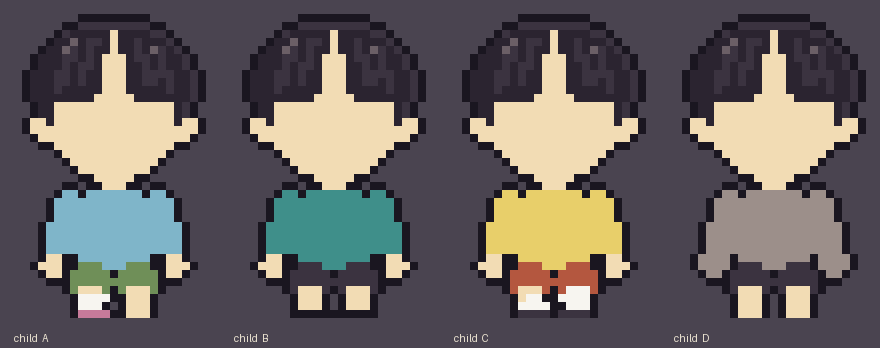
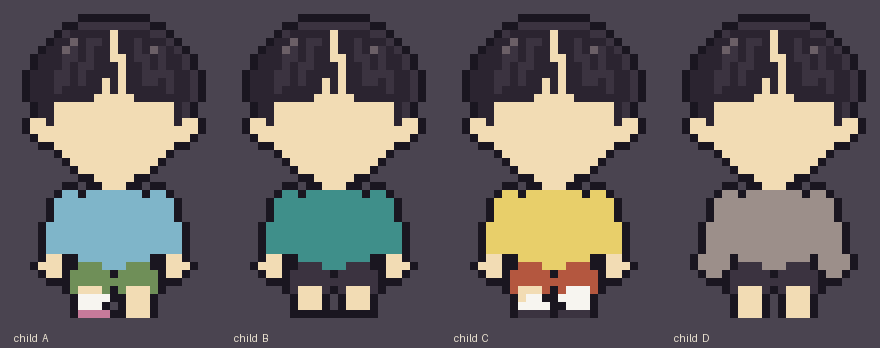
Protagonist: a single wisp strand in the center part
Claude-Session: https://claude.ai/code/session_01FPZSaKiVNU2zED737yZX4w

diff --git a/tools/gen_child5.py b/tools/gen_child5.py
@@ -17,6 +17,7 @@ def hair_black(c):
         half = 0.4 + (y - 2) * 0.22
         for x in range(24):
             if abs(x - 12) <= half and c.g[y][x] == 's': c.g[y][x] = K.SKIN
+    for x0, y0, x1, y1 in ((11.4, 5.6, 12.0, 9.0),): c.line(x0, y0, x1, y1, 1, ch='s')   # 가르마 사이로 내려온 잔머리
     for x0, y0, x1, y1 in ((7, 3.4, 5, 8.6), (9.4, 3.0, 8.0, 7.6), (15, 3.6, 16.6, 7.8), (17.6, 4.4, 19, 8.4)): c.line(x0, y0, x1, y1, 1, ch='d')   # 결(옅은 선)
     for x, y in ((6, 4), (7, 3), (17, 4)): c.put(x, y, 'm')                                                                                      # 윤기
 
